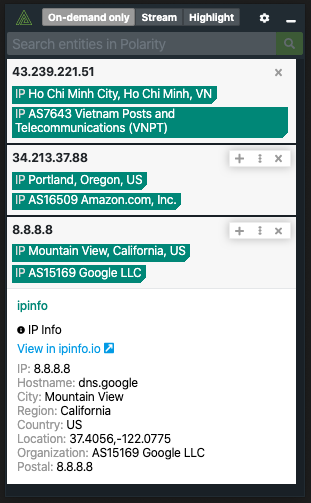
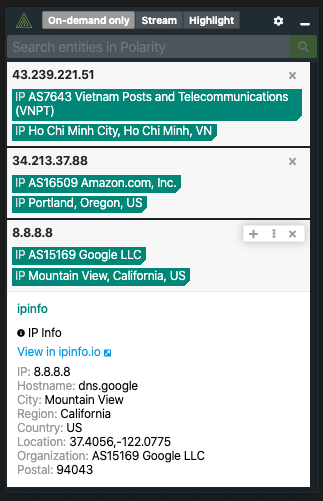
Updated package.json version, fixed portal/ip typo, and remade screenshot.

Changed region(s): [[0.0, 0.0, 0.9839, 0.988]]

diff --git a/styles/ipinfo.less b/styles/ipinfo.less
@@ -1,4 +1,7 @@
-
 .view-link {
   padding-bottom: 7px;
+}
+
+.external-link-icon {
+  font-size: 8px;
 }
